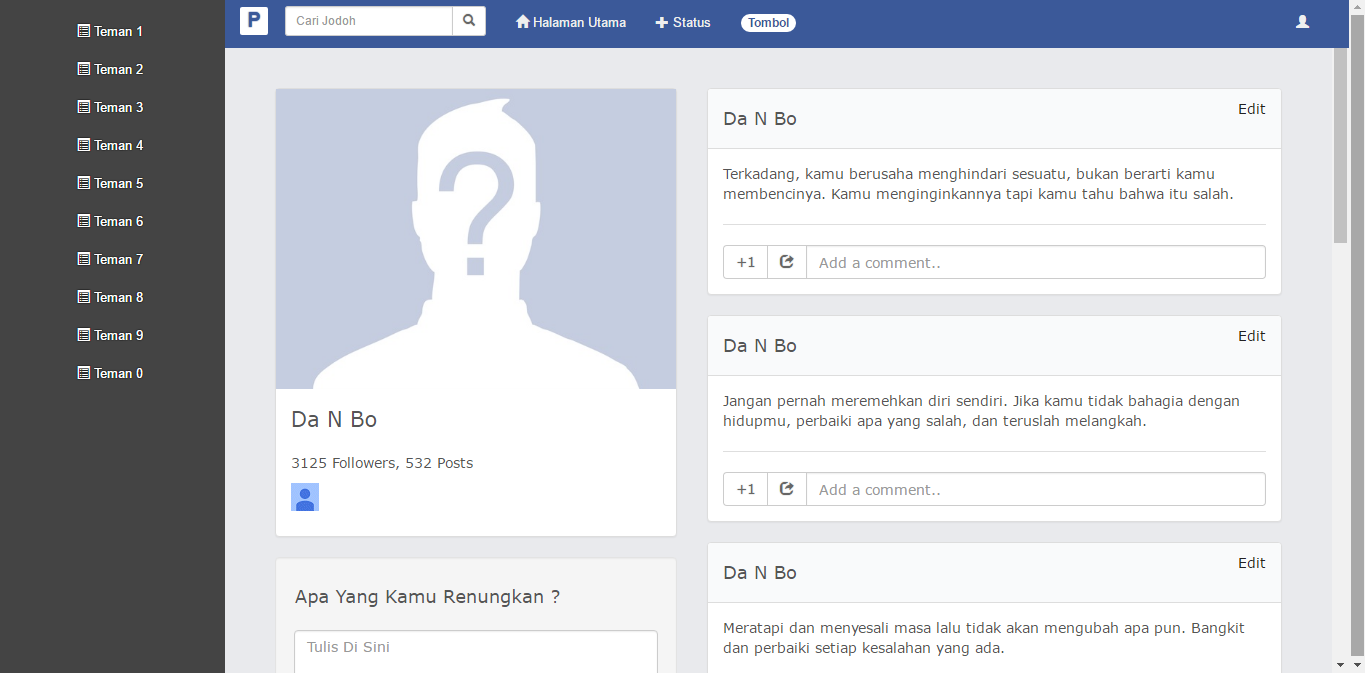
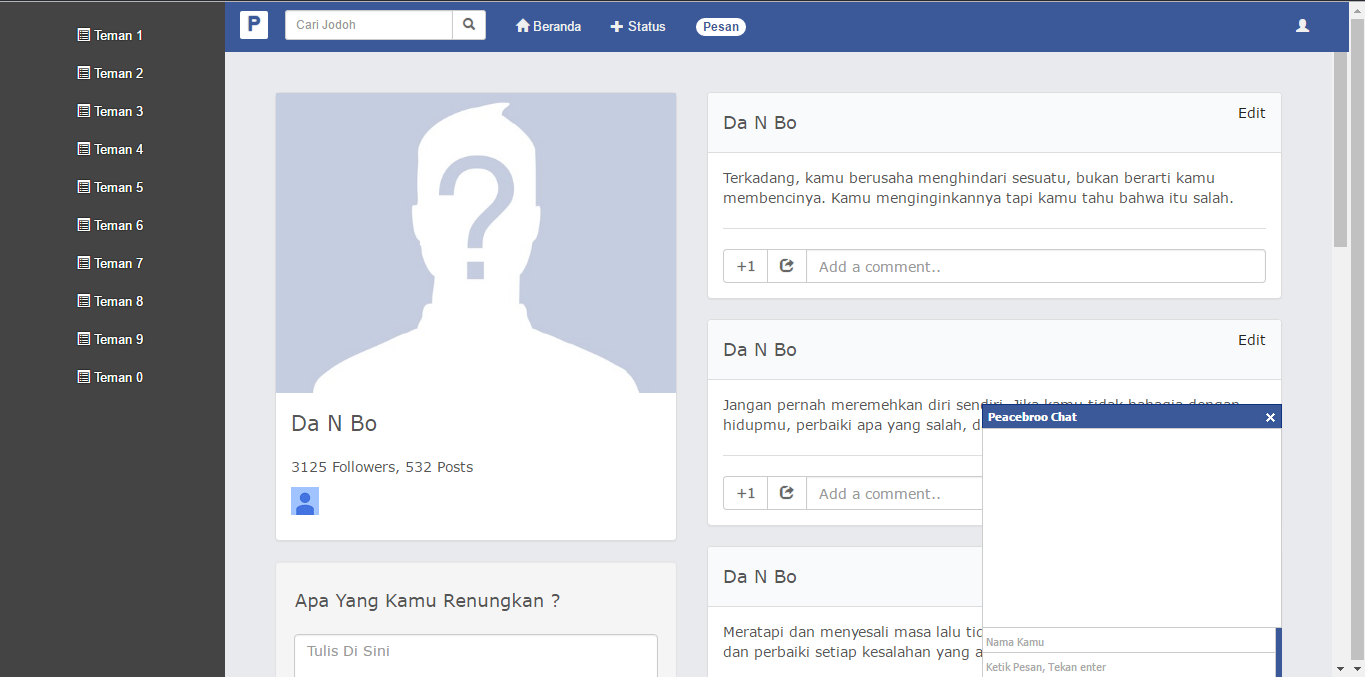
Perbaikan Struktur Popup

diff --git a/application/views/pages/Profil.php b/application/views/pages/Profil.php
@@ -172,13 +172,13 @@
 
                     <ul class="nav navbar-nav">
                       <li>
-                        <a href="#"><i class="glyphicon glyphicon-home"></i> Halaman Utama</a>
+                        <a href="#"><i class="glyphicon glyphicon-home"></i> Beranda</a>
                       </li>
                       <li>
                         <a href="#postModal" role="button" data-toggle="modal"><i class="glyphicon glyphicon-plus"></i> Status</a>
                       </li>
                       <li>
-                        <a href="#"><span class="badge">Tombol</span></a>
+                        <a href="#"><span class="badge">Pesan</span></a>
                       </li>
                     </ul>
 
